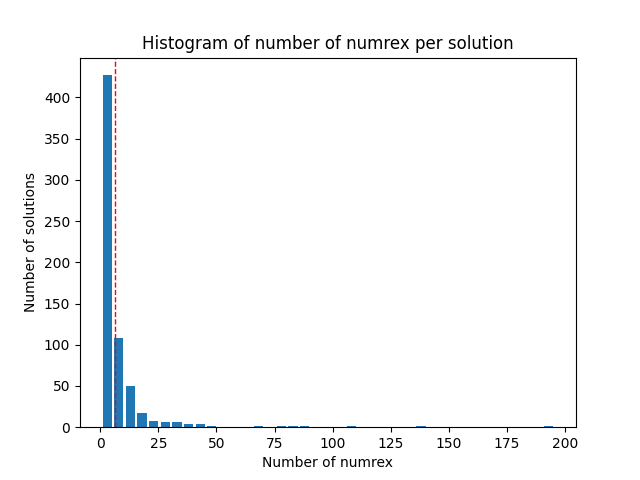
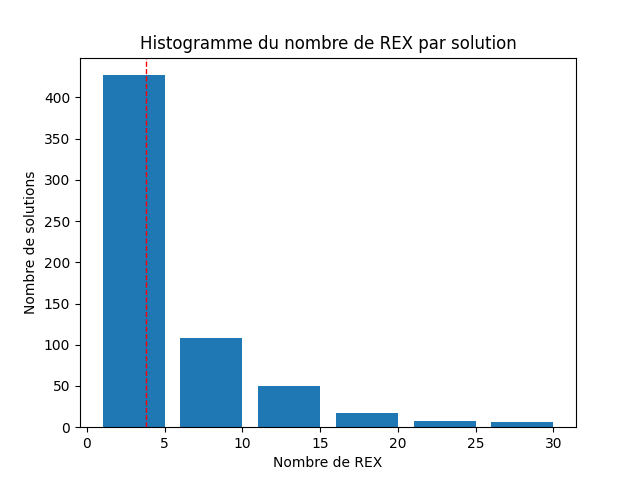
data viz fixed

Changed region(s): [[0.1562, 0.0625, 0.9062, 1.0], [0.0312, 0.3438, 0.0625, 0.6562], [0.125, 0.9062, 0.1562, 0.9375]]

diff --git a/viz/data_viz.py b/viz/data_viz.py
@@ -138,21 +138,34 @@ class DataVisualizer:
         for i in solution_count.values():
             histogram[i] += 1
 
-        mean = sum([i*j for i, j in enumerate(histogram)]) / sum(histogram)
+        nb_missing_solutions = 1100 - len(solution_count)
+        print(nb_missing_solutions)
+        
+        print(histogram)
+        # Get the mean number of numrex per solution (and take care of the missing solutions which have 0 numrex)
+        mean = sum([i*j for i, j in enumerate(histogram)]) / 1100
 
-        # Agregate to have classes width of 5
+        # Agregate to have classes width of 5 and cut the histogram at 50
+        histogram = histogram[:30]
         histogram = [sum(histogram[i:i+5]) for i in range(0, len(histogram), 5)]
         
         plt.axvline(mean, color='r', linestyle='dashed', linewidth=1)
         plt.bar(range(3, 5*len(histogram), 5), histogram, width=4)
-        plt.xlabel('Number of numrex')
-        plt.ylabel('Number of solutions')
-        plt.title('Histogram of number of numrex per solution')
+        plt.xlabel('Nombre de REX')
+        plt.ylabel('Nombre de solutions')
+        plt.title('Histogramme du nombre de REX par solution')
         plt.savefig(self.img_folder + 'solution_rex_hist.png')
         plt.show()
 
 # Usage
 if __name__ == "__main__":
     data_viz = DataVisualizer('viz/img/')
-    data_viz.sector_solution_viz()
+    #data_viz.sector_solution_viz()
     data_viz.solution_rex()
+
+    technology = data_viz.extractor.extract_dictionnaire("tec", "technologie", to_csv=False) # Technologies
+
+    technology.reset_index(inplace=True)
+    print(technology.head())
+    # Count the number of unique technologies
+    print(len(technology['numtechnologie'].unique()))
